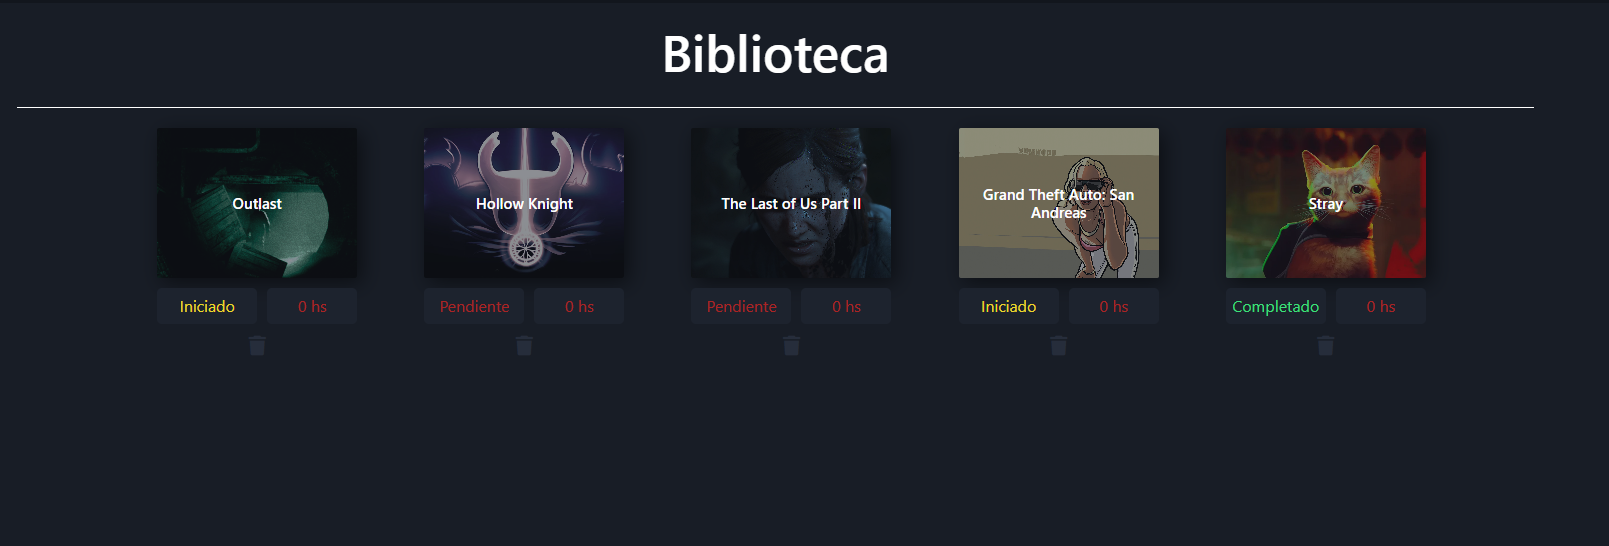
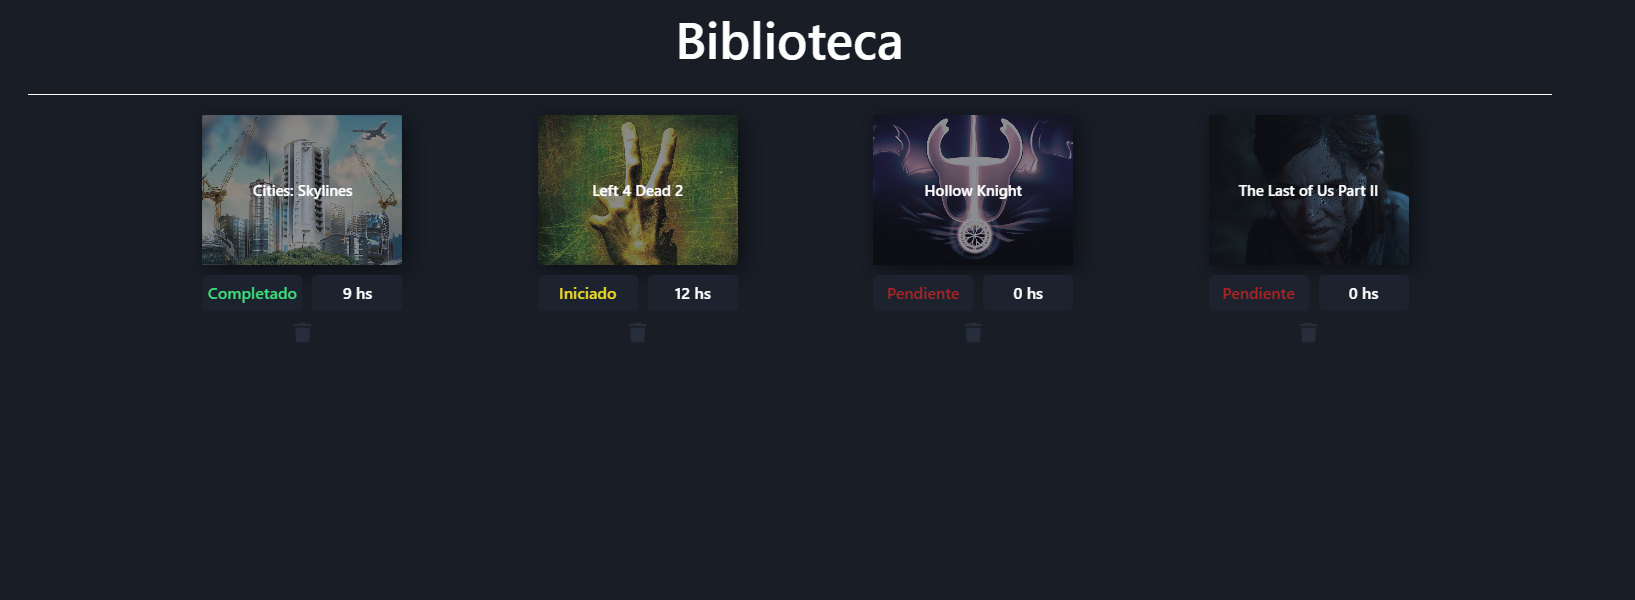
se terminan ultimos detalles

diff --git a/Proyecto-Final-Prog3/frontend/src/components/ui/GetResultsComponent.jsx b/Proyecto-Final-Prog3/frontend/src/components/ui/GetResultsComponent.jsx
@@ -18,7 +18,7 @@ export const GetResultsComponent = () => {
                 title: game.name,
                 image: game.background_image,
                 genres: game.genres.map(g => g.name).join(','),
-                hoursplayed: game.playtime
+                playtime: game.playtime
             })
         })
 
@@ -30,11 +30,11 @@ export const GetResultsComponent = () => {
         <div className="game__container">
         <h1 className="game__title">{query ? `Resultados para ${query}` : genre? `Resultados para ${genre}` : 'Busqueda'}</h1>
         {loading ? (
-            <p>Cargando datos...</p>
+            <p >Cargando datos...</p>
         ) : games.length > 0 ? (
             <ul className="game">
             {games.map((game) => (
-                <li className="game__li">
+                <li key={game.id} className="game__li">
                 <NavLink to={`/info/${game.id}`}>
                     <div className="game__info">
                     <img key={game.id} className="game__img" src={game.background_image} alt={game.name} />

diff --git a/Proyecto-Final-Prog3/frontend/src/App.css b/Proyecto-Final-Prog3/frontend/src/App.css
@@ -222,6 +222,7 @@
   border: none;
   border-radius: 5px;
   color: #aa2424;
+  font-weight: 500;
   background-color:#1d232e;
 }
 
@@ -239,7 +240,8 @@ input[value="Completado"]{
   padding: 5px;
   border: none;
   border-radius: 5px;
-  color: #aa2424;
+  color: #fff;
+  font-weight: 500;
   background-color:#1d232e;
 }
 
@@ -530,9 +532,9 @@ footer {
     align-items: center;
   }
 
-  /*.info__principal, .platform__title, .platform {
+  .info__principal, .platform__title, .platform {
     justify-content: center;
-  }*/
+  }
 }
 
 /* tablet: 601px hasta 1024px */
@@ -565,9 +567,9 @@ footer {
     gap: 30px;
   }
 
-  /*.platform, .platform__title{
+  .platform, .platform__title{
     justify-content: center;
-  }*/
+  }
 
   .hours__register, .input__hour, .submit__state{
     justify-content: center;

diff --git a/Proyecto-Final-Prog3/frontend/src/routes/LibraryScreen.jsx b/Proyecto-Final-Prog3/frontend/src/routes/LibraryScreen.jsx
@@ -64,7 +64,7 @@ export const LibraryScreen = () => {
                 </NavLink>
                 <div className="action__container">
                     <input className='input__state--disabled' type="text" value={game.state} disabled />
-                    <input className='input__hours--disabled' type="text" value={"0 hs"} disabled />
+                    <input className='input__hours--disabled' type="text" value={`${game.hoursplayed} hs`} disabled />
                 </div>
                 <button onClick={() => handleDeleteGame(game.id)} className="delete__btn"><i className="fa-solid fa-trash"></i></button>
               </li>

diff --git a/Proyecto-Final-Prog3/backend/controllers/game.controller.js b/Proyecto-Final-Prog3/backend/controllers/game.controller.js
@@ -68,10 +68,9 @@ const saveState = async(req,res) =>{
     const {id} = req.params;
     const {state, hoursplayed} = req.body;
     const [stateSaved] = await Game.update(
-      {state:state},
+      {state:state, hoursplayed:hoursplayed},
       {where: {id:id}}
     );
-
     if (stateSaved !== 0) {
       res.status(200).json({message: "Estado actualizado correctamente:", state, "Horas actualizadas correctamente! ":hoursplayed, "Juego con id": id});
     }

diff --git a/Proyecto-Final-Prog3/frontend/src/routes/InfoScreen.jsx b/Proyecto-Final-Prog3/frontend/src/routes/InfoScreen.jsx
@@ -25,7 +25,6 @@ export const InfoScreen = () => {
         }else if (value === "Completado"){
             setHours(gameID.playtime);
         }
-    
     }
 
     //Actualizar el estado
@@ -53,9 +52,8 @@ export const InfoScreen = () => {
             const valueHours = parseInt(e.target.value) || 0;
             setHours(valueHours)
         }
+        
     }
-
-    
 
     const handleCommentSubmit = async(e) => {
         e.preventDefault();

diff --git a/Proyecto-Final-Prog3/frontend/src/components/ui/GetGamesComponent.jsx b/Proyecto-Final-Prog3/frontend/src/components/ui/GetGamesComponent.jsx
@@ -13,9 +13,8 @@ export const GetGamesComponent = () => {
                 id: game.id,
                 title: game.name,
                 image: game.background_image,
-                state: game.state,
                 genres: game.genres.map(g => g.name).join(','),
-                hoursplayed: game.playtime
+                playtime: game.playtime
             })
         })
 

diff --git a/Proyecto-Final-Prog3/frontend/src/hooks/useGamesID.js b/Proyecto-Final-Prog3/frontend/src/hooks/useGamesID.js
@@ -40,7 +40,8 @@ export const useGamesID = () => {
     const gameWithLocalData = useMemo(() => ({
         ...gameID,
         comment: localGameData?.comment || "",
-        state: localGameData?.state || "Pendiente"
+        state: localGameData?.state || "Pendiente",
+
     }), [gameID, localGameData]);
 
     return {gameID: gameWithLocalData};

diff --git a/Proyecto-Final-Prog3/backend/models/entities/game.js b/Proyecto-Final-Prog3/backend/models/entities/game.js
@@ -21,7 +21,11 @@ module.exports = (sequelize, DataTypes) => {
       type:DataTypes.STRING,
       defaultValue: "Pendiente",
       },
-    hoursplayed: DataTypes.INTEGER,
+    hoursplayed: {
+      type: DataTypes.INTEGER,
+      defaultValue: 0
+    },
+    playtime: DataTypes.INTEGER,
     comment: DataTypes.STRING
   },
   {

diff --git a/Proyecto-Final-Prog3/backend/migrations/20250712195836-create-games.js b/Proyecto-Final-Prog3/backend/migrations/20250712195836-create-games.js
@@ -25,6 +25,9 @@ module.exports = {
       hoursplayed: {
         type: Sequelize.INTEGER
       },
+      playtime: {
+        type: Sequelize.INTEGER
+      },
       comment: {
         type: Sequelize.STRING
       },

diff --git a/Proyecto-Final-Prog3/README-PROJECT.md b/Proyecto-Final-Prog3/README-PROJECT.md
@@ -13,8 +13,15 @@
 2. Entrar a la carpeta llamada ***Proyecto-Final-Prog3***
 3. Aplicar en la terminal de VS el comando: ***docker-compose up***
 4. Si sale todo bien deberia mostrar esta pantalla al finalizar: 
-![compiled-success](/Proyecto-Final-Prog3/capturas-proyecto/capturas-proyecto/compiled-success.png)
+![compiled-success](/Proyecto-Final-Prog3/capturas-proyecto/compiled-success.png)
 5. Entramos a la ruta local: *http://localhost:3000*
+
+**IMPORTANTE**: Si por casualidad no llegara a responder el contenedor del frontend en docker desktop es porque por algun motivo no instala react-scripts, entonces lo que se deberia hacer en ese caso es: 
+- Ingresar a la carpeta frontend desde la consola de VS
+- Ejecutar el comando: ***npm i react-scripts@latest*** (Sin eliminar las vulnerabilidades)
+- Bajar docker y borrar volumenes con el comando: ***docker-compose down -v***
+- Volver a construir el contenedor con: ***docker-compose build***
+- Una vez que termine deberia aparecer la compilacion como se ve en la imagen de arriba.
 
 ## RECURSOS UTILIZADOS
 
@@ -26,6 +33,7 @@ Para este proyecto utilizamos una API externa proveniente de una pagina llamada 
 - generos
 - fecha de lanzamiento
 - Calificacion global
+- Horas totales 
 
 A continuacion dejamos el link de la pagina:
 API RAWG: https://rawg.io/apidocs
@@ -56,7 +64,7 @@ Esta carpeta solamente contiene el archivo index.js (ya creado anteriormente), d
 
 **DATABASE**
 
-Los datos son almacenados en POSTGREES (***http://localhost:5050***), el cual solamente tiene una sola tabla llamada **"Games"**. Esta tabla guarda:
+Los datos son almacenados en POSTGRES (***http://localhost:5050***), el cual solamente tiene una sola tabla llamada **"Games"**. Esta tabla guarda:
 - ID (API RAWG)
 - Titulo
 - Imagen
@@ -116,4 +124,4 @@ Una vez registrado el estado y las horas, **en la biblioteca se marcaran tambien
 
 ## CONCLUSIONES
 
-Este proyecto funciona muy bien para llevar acabo un registro de los juegos que se han jugado o se quieren jugar mas adelante, es algo asi como un diario personal. Espero que les guste probar este proyecto tanto como nos gusto a nosotros llevarlo a cabo.
+Este proyecto se encarga de llevar a cabo un registro de los juegos que se han guardado, mas que nada para tener un control y una lista definida de aquellos juegos que te gustaron o no, algo asi como un diario personal. Espero que les guste probar este proyecto tanto como nos gusto a nosotros llevarlo a cabo.
